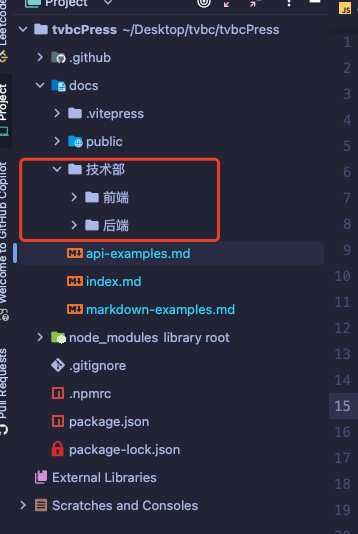
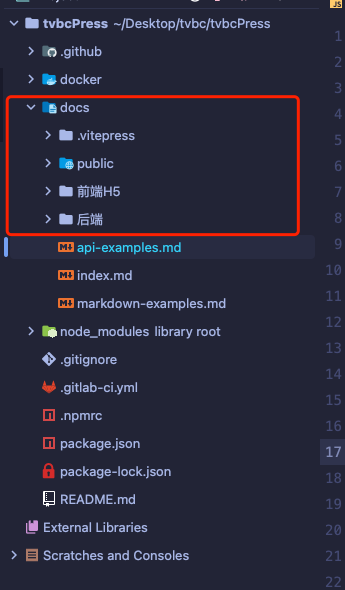
修改部配置

diff --git a/docs/.vitepress/theme/index.ts b/docs/.vitepress/theme/index.ts
@@ -1,7 +1,23 @@
 /* .vitepress/theme/index.ts */
 import DefaultTheme from 'vitepress/theme'
 import './style/index.css'
-
+import mediumZoom from 'medium-zoom';
+import { onMounted, watch, nextTick } from 'vue';
+import { useRoute } from 'vitepress';
 export default {
     extends: DefaultTheme,
+    setup() {
+        const route = useRoute();
+        const initZoom = () => {
+            // mediumZoom('[data-zoomable]', { background: 'var(--vp-c-bg)' }); // 默认
+            mediumZoom('.main img', { background: 'var(--vp-c-bg)' }); // 不显式添加{data-zoomable}的情况下为所有图像启用此功能
+        };
+        onMounted(() => {
+            initZoom();
+        });
+        watch(
+            () => route.path,
+            () => nextTick(() => initZoom())
+        );
+    },
 }

diff --git a/docs/.vitepress/theme/style/var.css b/docs/.vitepress/theme/style/var.css
@@ -29,7 +29,13 @@
   );
   --vp-home-hero-image-filter: blur(40px);
 }
+.medium-zoom-overlay {
+  z-index: 30;
+}
 
+.medium-zoom-image {
+  z-index: 9999 !important;/* 给的值是21，但是实测盖不住，直接999 */
+}
 /* 也可自行单独修改brand按钮 */
 /* :root {
   --vp-button-brand-border: #F6CEEC;

diff --git a/docs/api-examples.md b/docs/api-examples.md
@@ -7,14 +7,17 @@ outline: deep
 ## 项目下载
 通过git clone到git lab下载项目
 ```js
-git clone xxxx
+git clone http://git.mddcloud.com.cn/xuzhanhong/tvbcpress.git
 ```
 ## 查看目录结构
 ![图片](/base/pic.png)
-我们写文章直接在技术部文件夹进行添加对应的文件夹以及markdown文件即可(.md)
+我们写文章直接在docs文件夹下进行添加对应的文件夹以及markdown文件即可(.md)
+
+`ps:可以建立最多6层的子目录`:父目录->一层子目录->二层子目录->三次子目录->四层子目录...
+
 
 ## 推送到gitLab远程分支
-添加完文章之后推送到远程分支即可
+添加完文章之后推送到远程分支即可(本地分支跟远程分支都为main分支,不需要另外新建分支)
 ```js
 git add .
 git commit -m "xxx"  
